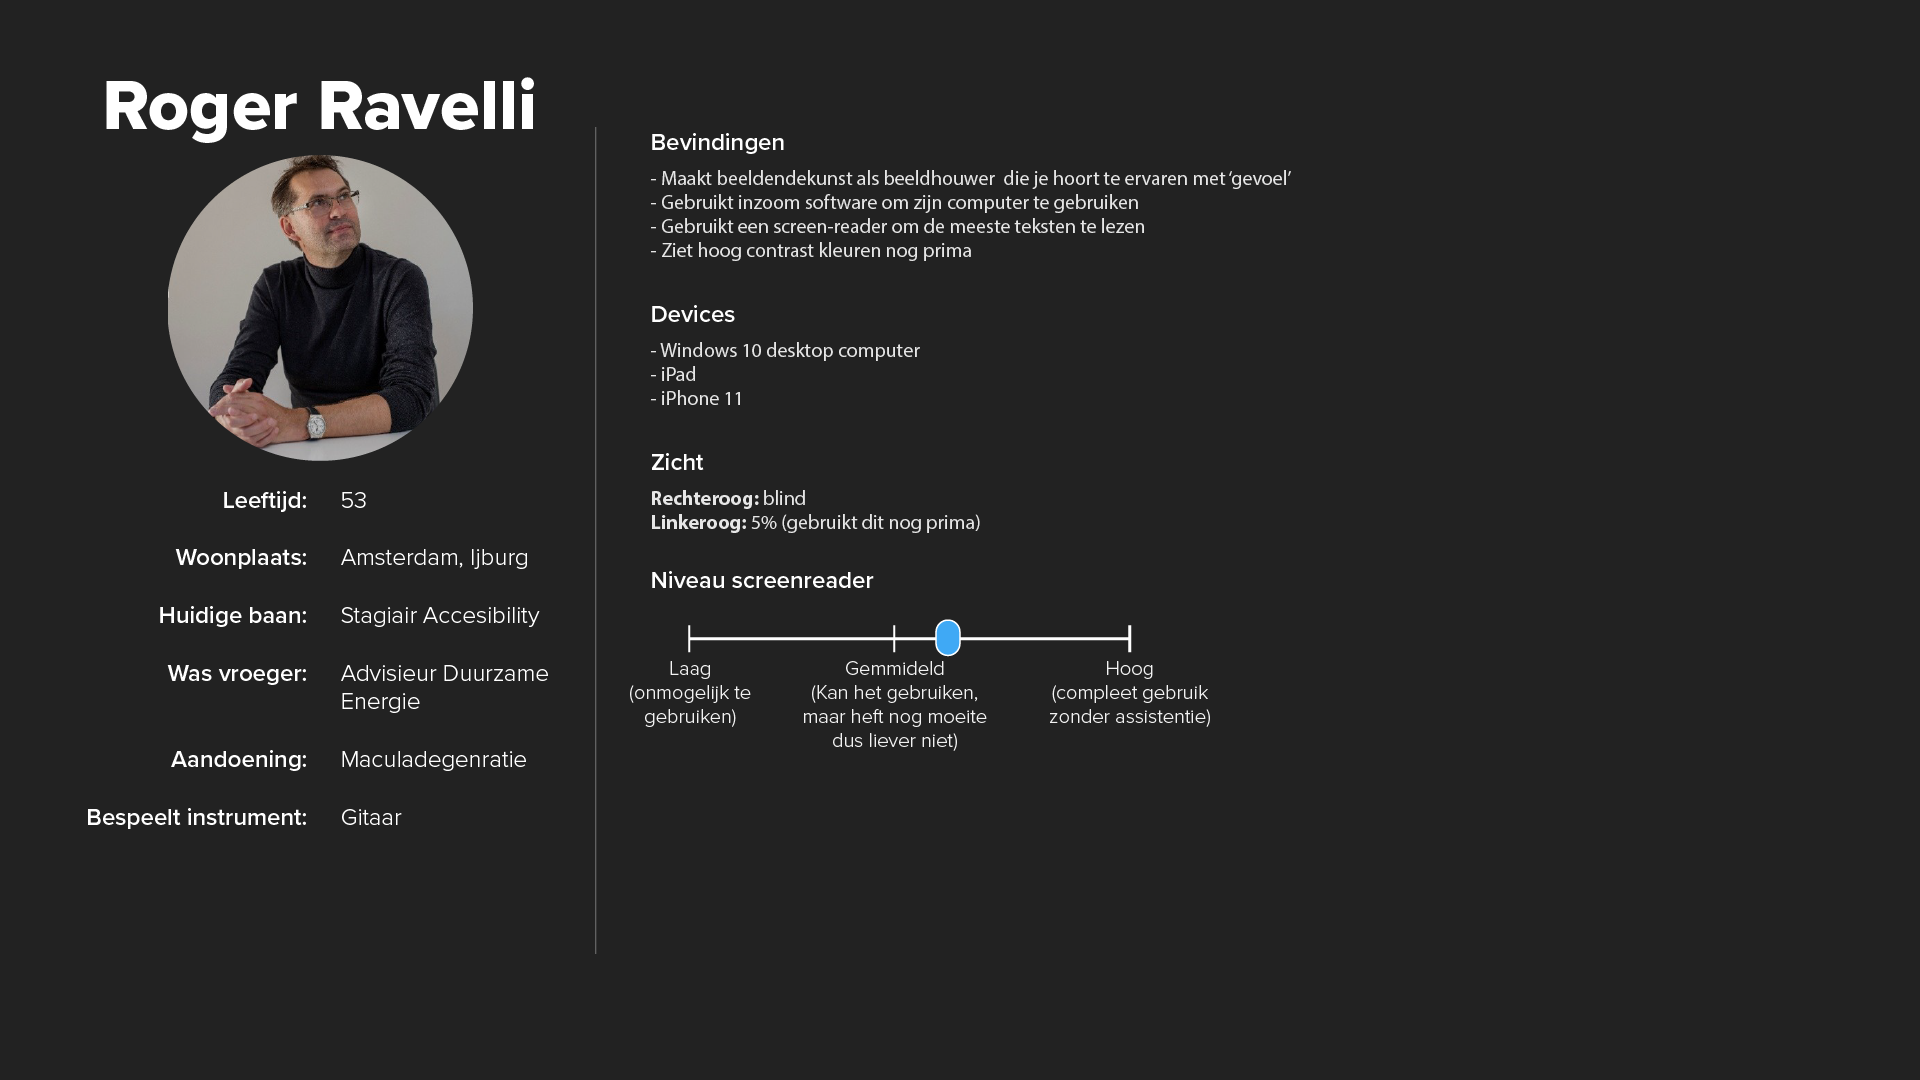
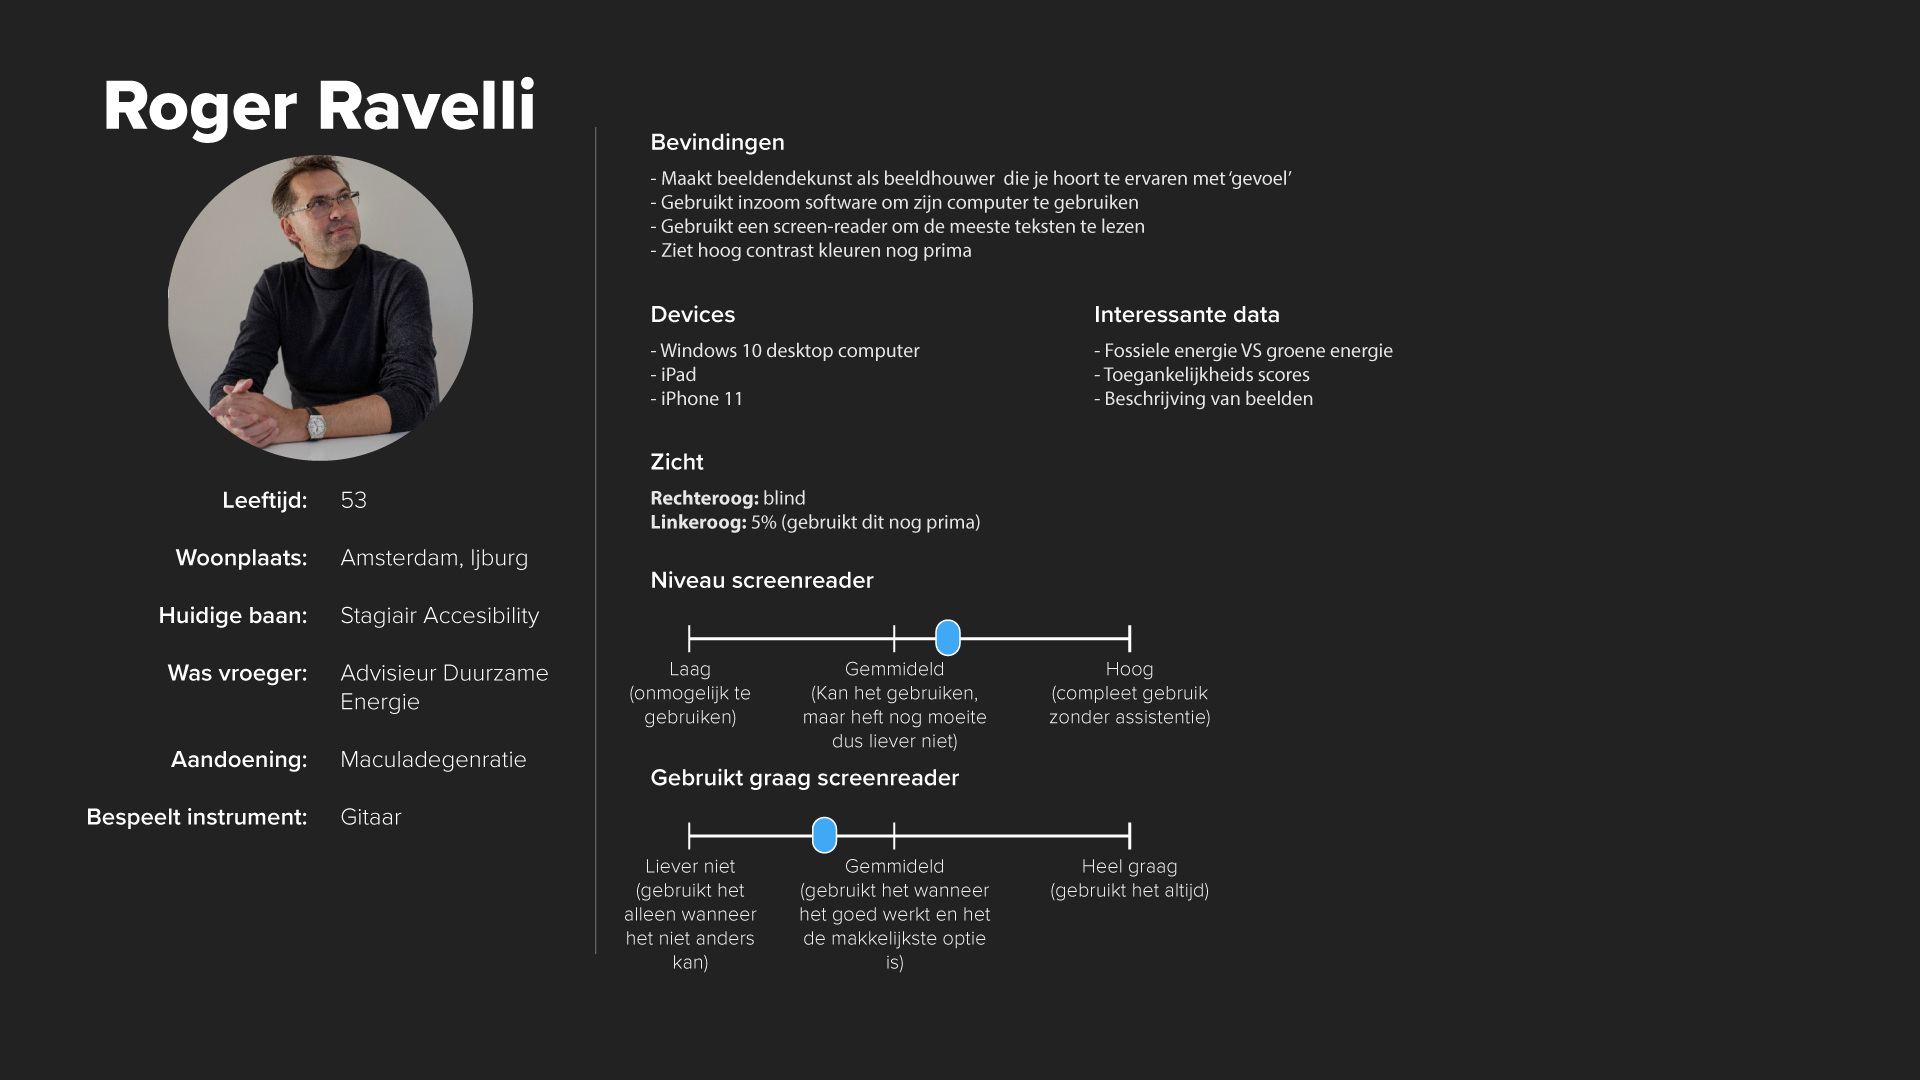
Updated profile and README.md

diff --git a/README.md b/README.md
@@ -1,16 +1,21 @@
 # Web Design @cmda-minor-web 1920
 ### Interactie ontwerpen: Rapid prototypen en testen met echte mensen
+Speciaal voor Roger Ravelli heb ik een ontwerp gemaakt om hem tegemoet te komen bij de problemen die hij ondervind bij het gebruik van zijn computer voor bepaalde doeleinden.
+Mijn focus hiervoor ligt op het begrijpbaar maken van grafieken voor Roger, aangezien roger een groot deel van zijn zicht niet meer kan gebruiken.
+Dit doe ik door middel van `Exclusive Design`, het tegenovergestelde van `Inclusive Design`.
 
-Web Design gaat over het ontwerpen en testen van Interactie. Het voordeel van een Frontend Developer (en Web Designer) is dat die techniek begrijpt, kan toepassen én verstand heeft van UX en design. Als je Web technieken begrijpt kun je je ideeën snel prototypen en testen met echte gebruikers, in een browser. Je kan dan aanpassingen doorvoeren, uitproberen en weer testen ...
-
-In het vak Web design gaan we dingen ontwerpen voor echte mensen. Is er goede interactie? Kan je 'mens' je product op een prettige manier bedienen? Wat voor principes heb je gebruikt en getest? En zit er wel _nonsense_ in?
-
+#### [Meer info over het proces vindt je in de wiki](https://github.com/aaraar/web-design-1920/wiki)
 
 ## Profiel Roger Ravelli
 ![Profiel roger](./documentation/roger.png)
 
-assumptive rendering
-
+### Requirements
+Requirements a.d.h.v. het profiel
+1. Er moet interessante en echte data gevisualiseerd worden (bv. toeganklijkheidscijfers of groene energie cijfers)
+1. Als er tekst in staat moet deze goed leesbaar en begrijpbaar zijn door Roger op zijn screenreaders op de iPad, iPhone en door supernova op windows
+1. De basis informatie van de gehele website moet voor hem te begrijpen zijn zonder het gebruik van een screenreader
+1. De interface moet duidelijk zichtbaar zijn voor Roger zodat hij nog wel het gedeeltelijke zicht dat hij nog heeft kan gebruiken
+1. Hij moet de volledige controle over de applicatie en wat de applicatie eventueel zegt of laat zien hebben (Hij moet bijvoorbeeld altijd onderdelen kunnen starten en weer kunnen stoppen of sluiten)
 
 ## Leerdoelen
 - _Leren hoe je (design) principles in een ontwerp kan toepassen._
